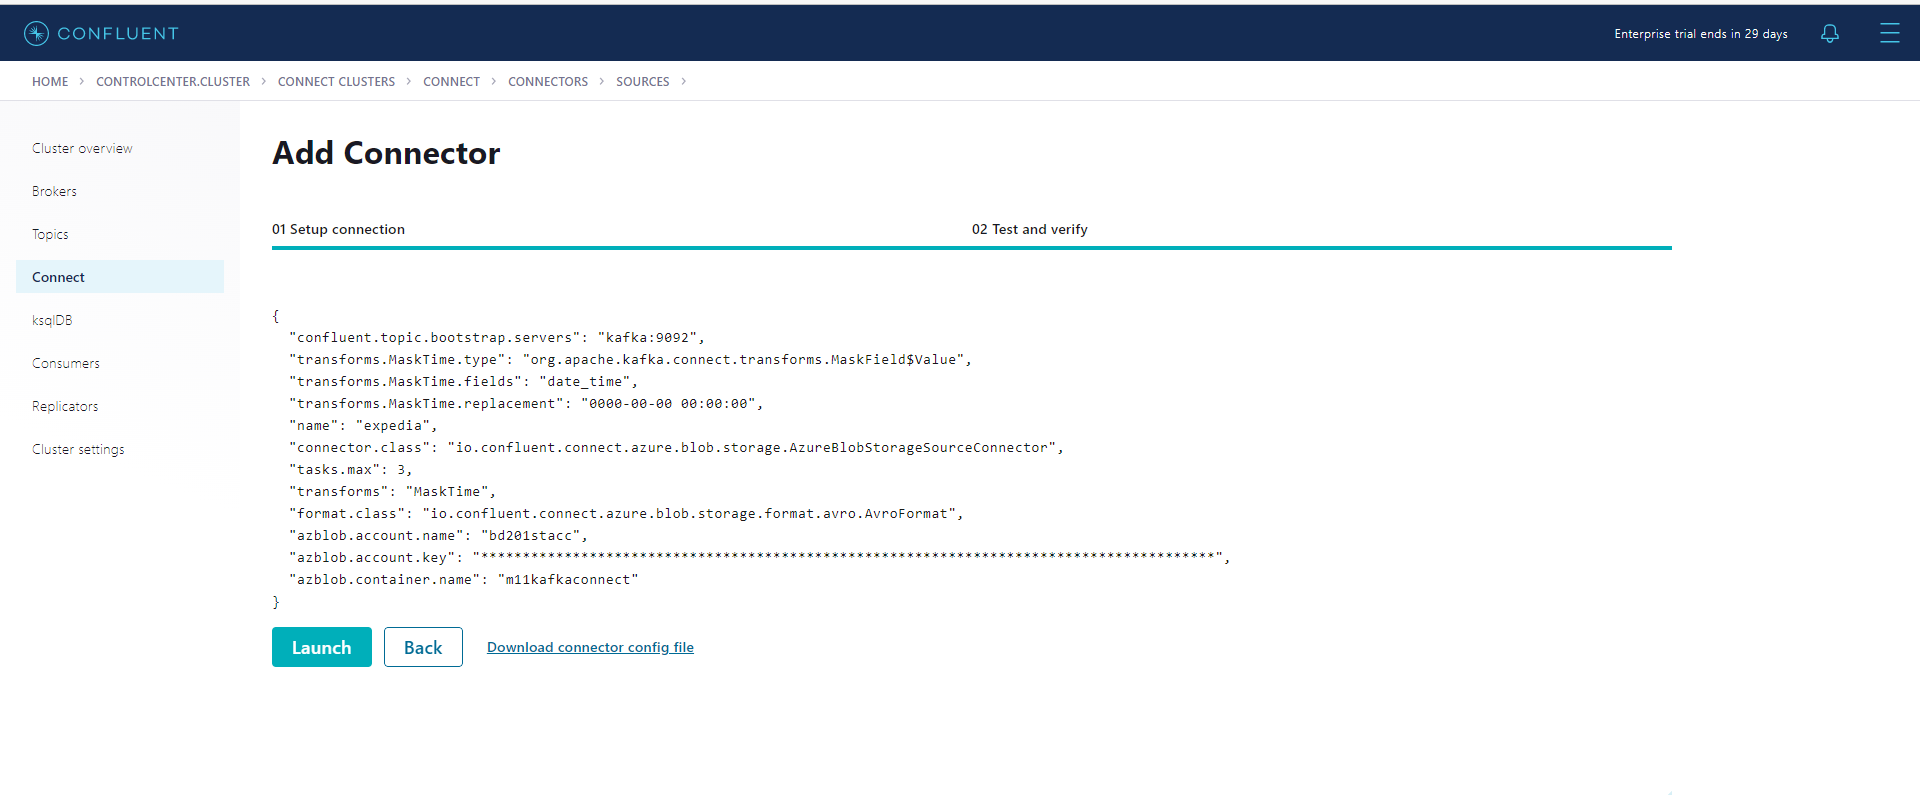
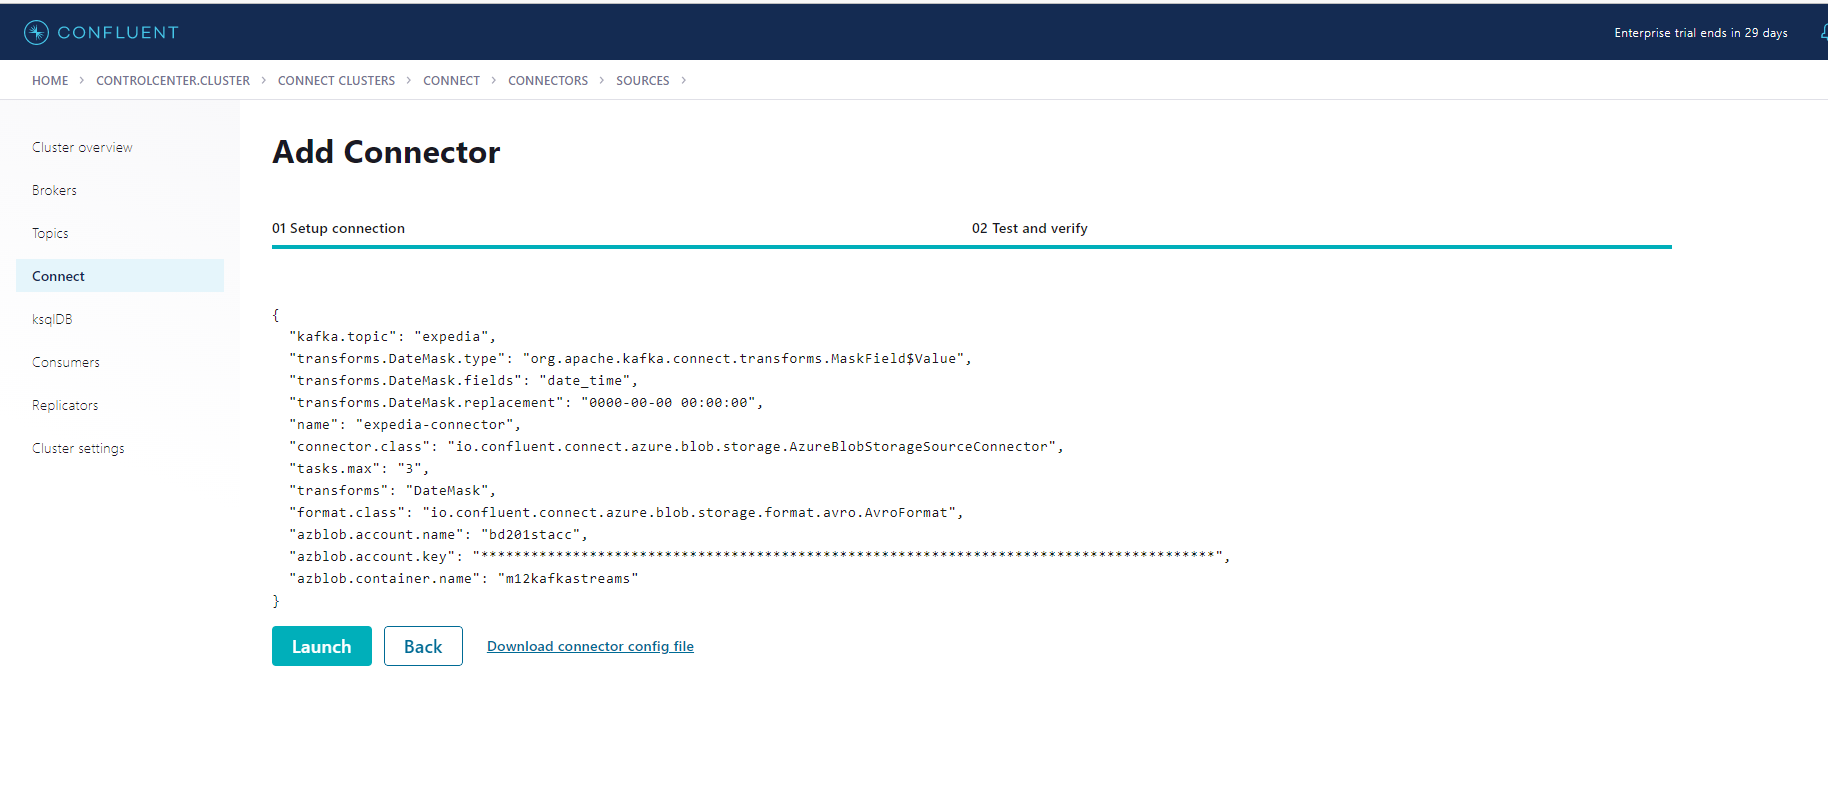
result

diff --git a/README.md b/README.md
@@ -1,7 +1,6 @@
-# Setup
-First we will need the Azure resources
+# Kafka connect in Kubernetes
 
-### Terraform
+## Terraform
 
 Login to Azure
 ```bash
@@ -15,18 +14,7 @@ terraform plan -out terraform.plan
 terraform apply terraform.plan
 ```
 
-Go to ADLS Gen 2 resource and set the OAuth 2.0 access with an Azure service principal: https://docs.microsoft.com/en-us/azure/databricks/data/data-sources/azure/adls-gen2/azure-datalake-gen2-sp-access
-
-Copy the following credentials:
-* "abfss://container-name@storage-account.dfs.core.windows.net/" to `STORAGE_PATH` in `main.py`
-* application-client-id to `APP_ID` in `main.py`
-* directory-id to `DIRECTORY_ID` in `main.py`
-* client-secret to `AZURE_SECRET` in `src/.env` file (see `src/.env.example`)
-
-
-### Geocoding API
-
-Sign up on https://opencagedata.com/ , get the API key and put it in the `src/.env` file 
+## Create a custom docker image
 
 ### Azure Container Registry
 
@@ -53,38 +41,89 @@ Get credentials for AKS cluster
 az aks update -n <aks_resource_name> -g <aks_resource_group_name> --attach-acr <registry-name>
 ```
 
-# Run
 
-Submit the Spark Job with the following command:
-```bash
-spark-submit --master k8s://<your-azure-kubernetes-cluster>.hcp.<region>.azmk8s.io\
- --deploy-mode cluster --name m06sparkbasics --executor-memory 3G --driver-memory 3G\
-  --conf spark.sql.broadcastTimeout=6000 --conf spark.kubernetes.container.image.pullPolicy=Always\
-   --conf spark.kubernetes.container.image=<your-azure-container-registry>.azurecr.io/<container-name>:<tag>\
-     local:///opt/main.py
+## Launch Confluent for Kubernetes
 
-```
+### Create a namespace
 
-# Result
+- Create the namespace to use:
 
-Pods started
+  ```cmd
+  kubectl create namespace confluent
+  ```
 
-![pods_started](screenshots/pods_started.png)
+- Set this namespace to default for your Kubernetes context:
 
-Spark UI view:
+  ```cmd
+  kubectl config set-context --current --namespace confluent
+  ```
 
-![spark_ui_view](screenshots/spark_ui_view.png)
+### Install Confluent for Kubernetes
 
+- Add the Confluent for Kubernetes Helm repository:
 
-The job got completed successfully
+  ```cmd
+  helm repo add confluentinc https://packages.confluent.io/helm
+  helm repo update
+  ```
 
-![pods_completed](screenshots/pods_completed.png)
+- Install Confluent for Kubernetes:
 
-We can see the result data in ADLS Gen 2 with preserved partitioning
+  ```cmd
+  helm upgrade --install confluent-operator confluentinc/confluent-for-kubernetes
+  ```
 
-![results](screenshots/results.png)
+### Install Confluent Platform
 
-Example of joined data
+- Install all Confluent Platform components:
 
-![result_example](screenshots/result_example.png)
+  ```cmd
+  kubectl apply -f ./confluent-platform.yaml
+  ```
+
+- Check that everything is deployed:
+
+  ```cmd
+  kubectl get pods -o wide 
+  ```
+
+### View Control Center
+
+- Set up port forwarding to Control Center web UI from local machine:
+
+  ```cmd
+  kubectl port-forward controlcenter-0 9021:9021
+  ```
+
+- Browse to Control Center: [http://localhost:9021](http://localhost:9021)
+
+## Report
+
+### Set up confluent platform in kubernetes
+
+![image](screenshots/1-set-up-platform.png)
+
+### See the pods running
+
+![image](screenshots/2-set-up-complete.png)
+
+### View Control Center
+
+![image](screenshots/3-control-center.png)
+
+### Create 'expedia' topic with 3 partitions
+
+![image](screenshots/4-topic-expedia.png)
+
+### Add source connector by uploading `connectors/azure-source-cc-expedia.json`
+
+![image](screenshots/5-add-connector.png)
+
+### See the connector running
+
+![image](screenshots/6-connector-running.png)
+
+### Check the topic being populated with dates masked
+
+![image](screenshots/7-check-messages.png)
 
